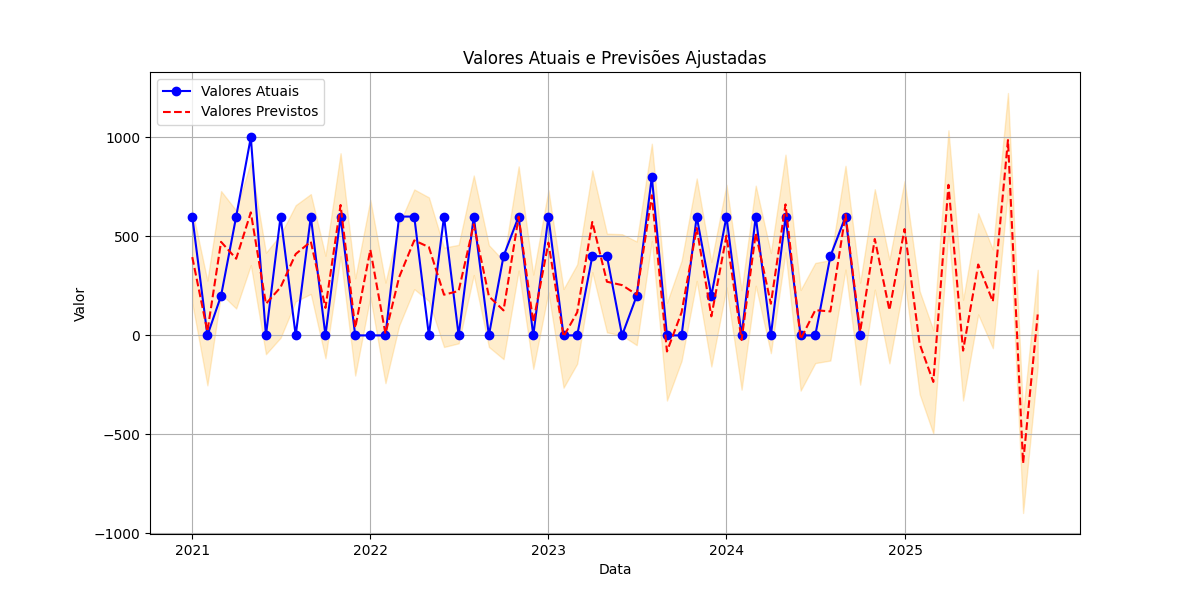
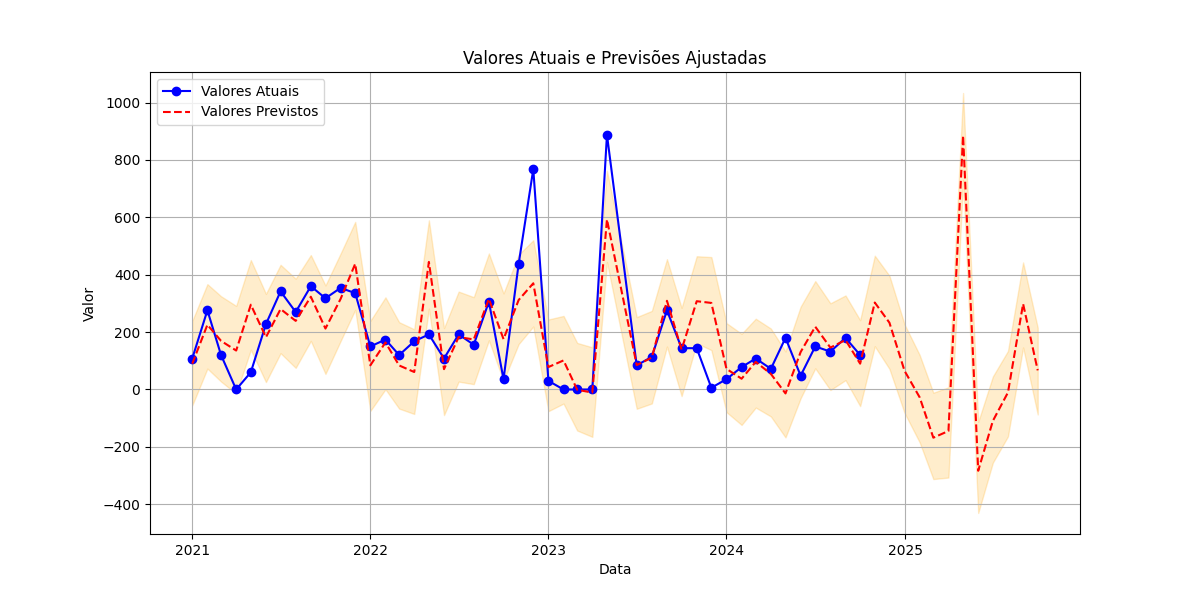
Eixo X ano-mes ordenado

diff --git a/app.py b/app.py
@@ -95,8 +95,8 @@ def forecast_xgboost(model, df, steps=12):
 
 def training_xgboost(df):
     # Prepara o dataset
-    df['mes'] = pd.to_datetime(df['mes-ano']).dt.month
-    df['ano'] = pd.to_datetime(df['mes-ano']).dt.year
+    df['mes'] = pd.to_datetime(df['ano-mes']).dt.month
+    df['ano'] = pd.to_datetime(df['ano-mes']).dt.year
 
     # Criando lag features para capturar valores passados
     df['valor_lag1'] = df['valor'].shift(1)
@@ -138,7 +138,7 @@ def plot_xgboost(df, predictions):
     #st.subheader('plot_xgboost')
     #st.table(df)
     
-    df['mes-ano'] = pd.to_datetime(df['mes-ano'], format='%Y-%m', errors='coerce')
+    df['ano-mes'] = pd.to_datetime(df['ano-mes'], format='%Y-%m', errors='coerce')
     # Extraindo previsões para 3, 6, 9 e 12 meses
     #model = training_xgboost(df)
     # Exemplo de uso para prever os próximos 12 meses
@@ -151,12 +151,12 @@ def plot_xgboost(df, predictions):
     previsao_12_meses = predicoes_12_meses[11] # índice 11 para o décimo segundo mês
 
     # Obtendo a última data do DataFrame
-    ultima_data = df['mes-ano'].iloc[-1]
+    ultima_data = df['ano-mes'].iloc[-1]
 
     print('Ultima data:',ultima_data)
     # Criando um DataFrame para as previsões
     previsao_data = {
-    'mes-ano': [
+    'ano-mes': [
         ultima_data + pd.DateOffset(months=1),
         ultima_data + pd.DateOffset(months=3),
         ultima_data + pd.DateOffset(months=6),
@@ -180,7 +180,7 @@ def plot_xgboost(df, predictions):
     #df = pd.concat([df, df_previsao], ignore_index=True)
 
     # Drop rows with invalid dates (NaT)
-    df = df.dropna(subset=['mes-ano'])
+    df = df.dropna(subset=['ano-mes'])
     #st.table(df)
 
     # Exibindo o DataFrame atualizado
@@ -189,9 +189,9 @@ def plot_xgboost(df, predictions):
 
     # Plotando os valores históricos e as previsões
     plt.figure(figsize=(12, 6))
-    plt.plot(df['mes-ano'], df['valor'], label='Valores Atuais', color='blue', marker='o')
+    plt.plot(df['ano-mes'], df['valor'], label='Valores Atuais', color='blue', marker='o')
     plt.axvline(x=ultima_data, color='green', linestyle='--', label='Início das Previsões')
-    plt.plot(df_previsao['mes-ano'].iloc[-5:], df_previsao['valor'].iloc[-5:], color='red', label='Previsões', marker='o')
+    plt.plot(df_previsao['ano-mes'].iloc[-5:], df_previsao['valor'].iloc[-5:], color='red', label='Previsões', marker='o')
     plt.title('Valores Atuais e Previsões para Próximos 1, 3, 6, 9 e 12 Meses')
     plt.xlabel('Data')
     plt.ylabel('Valor')
@@ -247,7 +247,7 @@ def save_plot2(df, descricao, forecast,model, intervalo):
 
 def predict3(temp, intervalo, sazonality):
   df = pd.DataFrame()
-  df['ds'] = pd.to_datetime(temp['mes-ano'])  # Coluna de datas mensais
+  df['ds'] = pd.to_datetime(temp['ano-mes'])  # Coluna de datas mensais
   df['y'] = temp['valor']  # Coluna de valores
   df = df.sort_values(by='ds')
  
@@ -318,13 +318,13 @@ def main():
             # Converte o DataFrame para o formato longo (long format) para reorganizar as colunas de data
             df_melted = df.melt(id_vars=[col for col in df.columns if col not in date_columns],
                     value_vars=date_columns,
-                    var_name='mes-ano', value_name='valor')
+                    var_name='ano-mes', value_name='valor')
 
             # Convert 'mes-ano' column to datetime objects
-            df_melted['mes-ano'] = pd.to_datetime(df_melted['mes-ano'])
+            df_melted['ano-mes'] = pd.to_datetime(df_melted['ano-mes'])
 
             # Now you can use .dt.strftime
-            df_melted['mes-ano'] = df_melted['mes-ano'].dt.strftime('%Y-%m')
+            df_melted['ano-mes'] = df_melted['ano-mes'].dt.strftime('%Y-%m')
 
             df_melted.dropna(inplace=True)
 
@@ -386,13 +386,24 @@ def main():
             #    st.markdown("Tabela filtrada")
             #else:
             #    st.markdown("Tabela original")            
-            
+            #df['data'] = pd.to_datetime(temp['mes-ano'], format='%Y-%m')
+            #df = df.sort_values(by='data')
+            #df['valor'] = temp['mes-ano']
+            # Plotar o gráfico
+            #plt.plot(df['data'], df['valor'])
+            #plt.xlabel('Data')
+            plt.ylabel('Valor')
+            #plt.title('Exemplo de Gráfico com Datas Ordenadas')
+            #plt.xticks(rotation=45)  # Rotacionar para facilitar a leitura das datas
+            #plt.show()
             # Cria o gráfico e salva como 'atual.png'
             fig, ax = plt.subplots()
-            temp.plot(x='mes-ano', y='valor', ax=ax)
+            temp = temp.sort_values(by='ano-mes')
+            temp.plot(x='ano-mes', y='valor', ax=ax)
             st.subheader(descricao)
             st.write("Qtd:", temp.shape[0])
-            ax.set_title('Evolução dos Valores ao Longo do Tempo')
+            #ax.set_title('Evolução dos Valores ao Longo do Tempo')
+            
             plt.savefig('atual.png')  # Salva o gráfico
 
             # Exibe a imagem salva
@@ -458,10 +469,10 @@ def main():
                        # Inicializar o Auto-ARIMA
                            st.markdown('### Arima')
                            # Training model
-                           df = temp[['mes-ano','valor']]
-                           df['mes-ano'] = pd.to_datetime(temp['mes-ano'])
+                           df = temp[['ano-mes','valor']]
+                           df['ano-mes'] = pd.to_datetime(temp['ano-mes'])
                        
-                           df.set_index('mes-ano', inplace=True)
+                           df.set_index('ano-mes', inplace=True)
                        
                       
                            model = pm.auto_arima(df['valor'], seasonal=True, m=3, trace=True, error_action='ignore', suppress_warnings=True)
